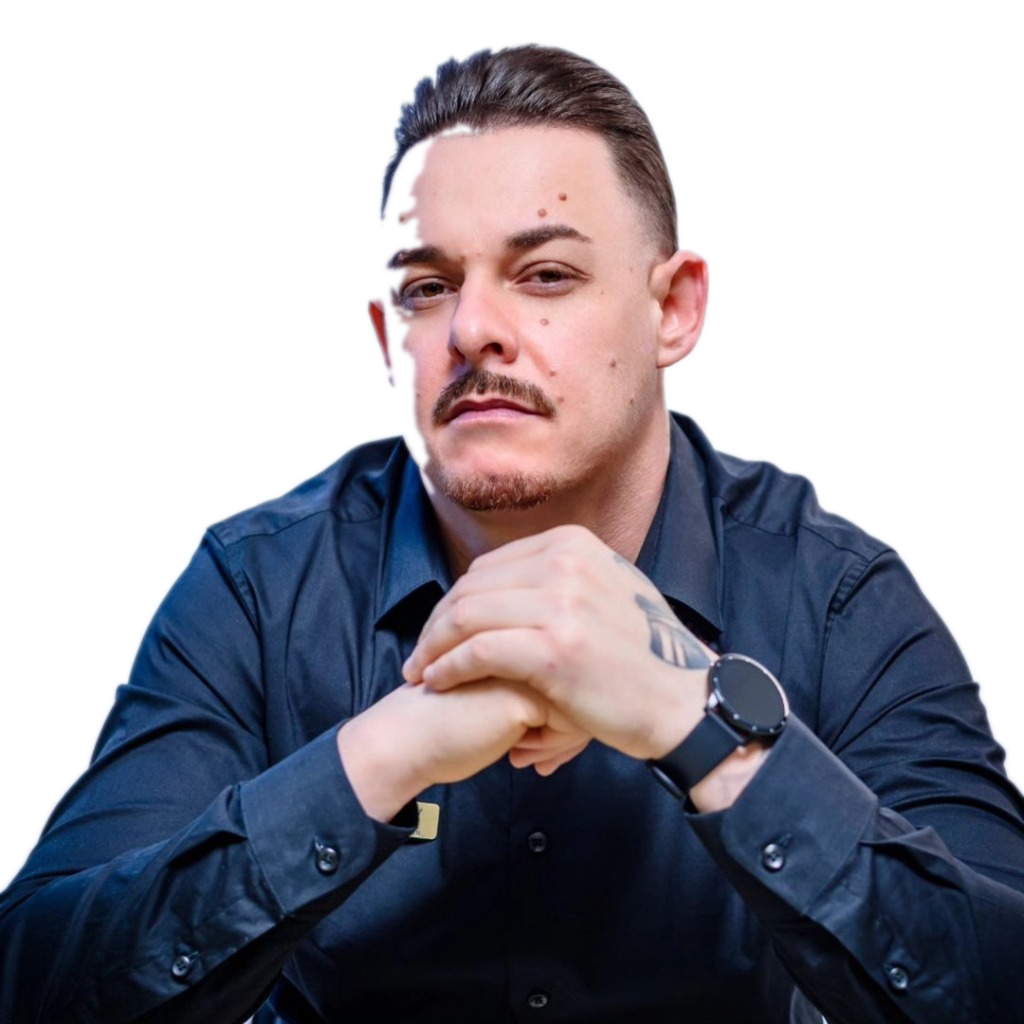
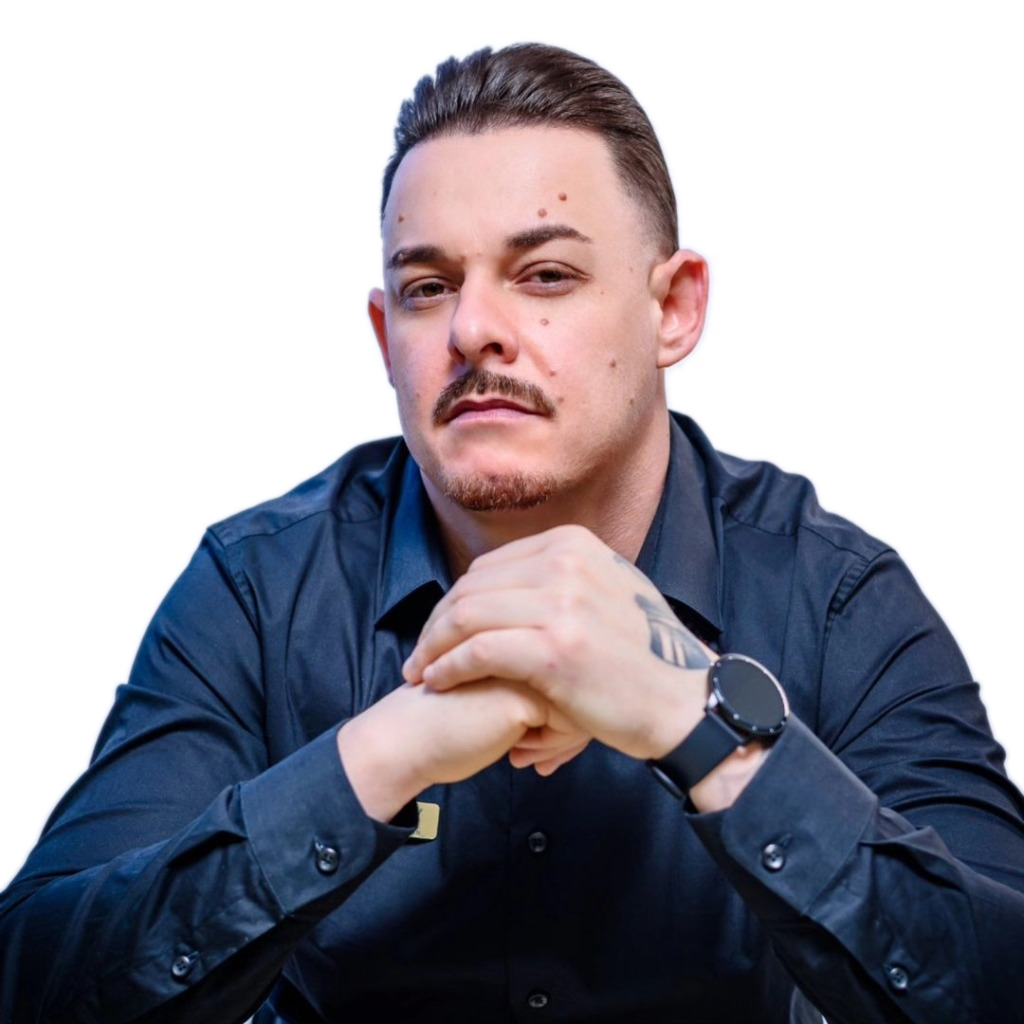
refactor: improve background removal for owner portrait to avoid transparency spots

diff --git a/scratch/remove_owner_bg_robust.py b/scratch/remove_owner_bg_robust.py
@@ -1,0 +1,74 @@
+from PIL import Image, ImageFilter
+import os
+from collections import deque
+
+def remove_background_robust():
+    src_path = "/Users/pedropetenon/.gemini/antigravity-ide/brain/8b6b1e0c-a0f7-4239-8a76-73f1a3832022/media__1779729921830.jpg"
+    dest_path = "/Users/pedropetenon/Richard/public/images/owner.png"
+    
+    if not os.path.exists(src_path):
+        print(f"Error: Source image not found at {src_path}")
+        return
+        
+    img = Image.open(src_path).convert("RGBA")
+    w, h = img.size
+    
+    # Create mask: default all pixels to 255 (fully opaque foreground)
+    mask = Image.new("L", (w, h), 255)
+    
+    # Pre-calculate background-like pixels by color signature (refined threshold)
+    bg_pixels = set()
+    for y in range(h):
+        for x in range(w):
+            r, g, b, a = img.getpixel((x, y))
+            # Background is light blue/grey studio backdrop
+            # Thresholded to prevent leaking into hair reflection and skin highlights
+            is_bg_color = (b > 190) and (b > r + 15) and (b > g + 10) and (g > 150) and (r > 120)
+            if is_bg_color:
+                bg_pixels.add((x, y))
+                
+    # Run BFS starting from the top edge and upper side edges to find connected background
+    visited = set()
+    queue = deque()
+    
+    # Seed top edge
+    for x in range(w):
+        if (x, 0) in bg_pixels:
+            queue.append((x, 0))
+            visited.add((x, 0))
+            
+    # Seed upper sides (down to 75% height) where background is present
+    for y in range(int(h * 0.75)):
+        if (0, y) in bg_pixels and (0, y) not in visited:
+            queue.append((0, y))
+            visited.add((0, y))
+        if (w - 1, y) in bg_pixels and (w - 1, y) not in visited:
+            queue.append((w - 1, y))
+            visited.add((w - 1, y))
+            
+    # BFS traversal
+    directions = [(-1, 0), (1, 0), (0, -1), (0, 1)]
+    while queue:
+        cx, cy = queue.popleft()
+        mask.putpixel((cx, cy), 0) # set as background (transparent)
+        
+        for dx, dy in directions:
+            nx, ny = cx + dx, cy + dy
+            if 0 <= nx < w and 0 <= ny < h:
+                if (nx, ny) in bg_pixels and (nx, ny) not in visited:
+                    visited.add((nx, ny))
+                    queue.append((nx, ny))
+                    
+    # Smooth the mask using a Gaussian blur to create soft edges (feather effect)
+    mask_smoothed = mask.filter(ImageFilter.GaussianBlur(radius=2))
+    
+    # Put the mask back into the image's alpha channel
+    img.putalpha(mask_smoothed)
+    
+    # Save the transparent PNG
+    img.save(dest_path, "PNG")
+    print(f"Robust background removal completed successfully! Saved to {dest_path}")
+
+if __name__ == "__main__":
+    remove_background_robust()
+